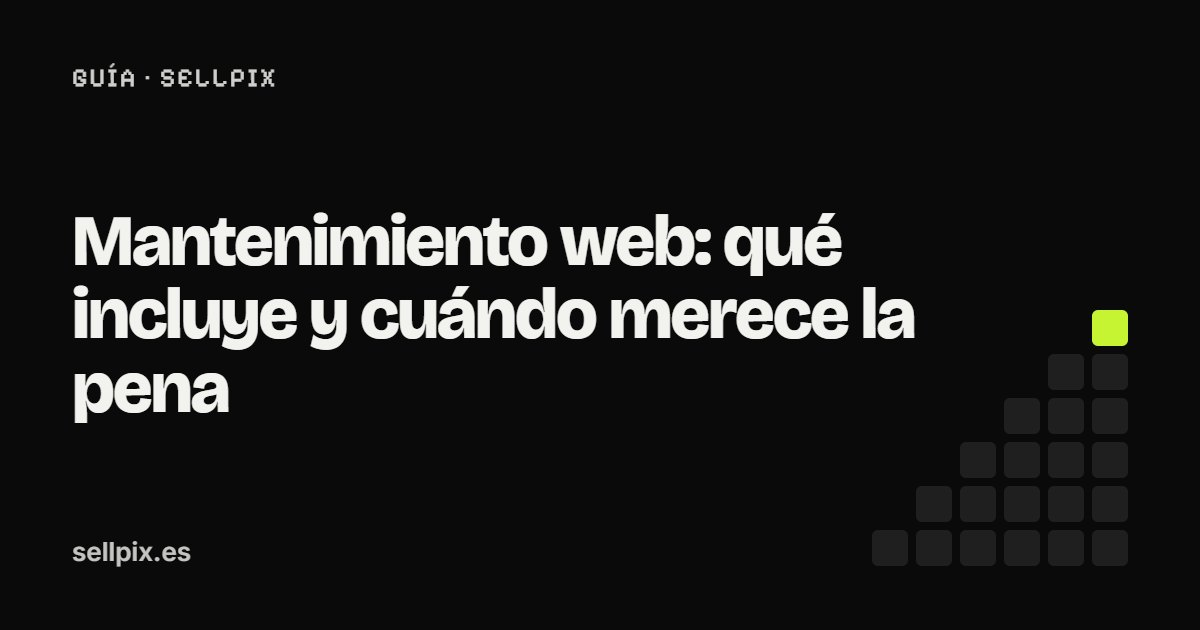
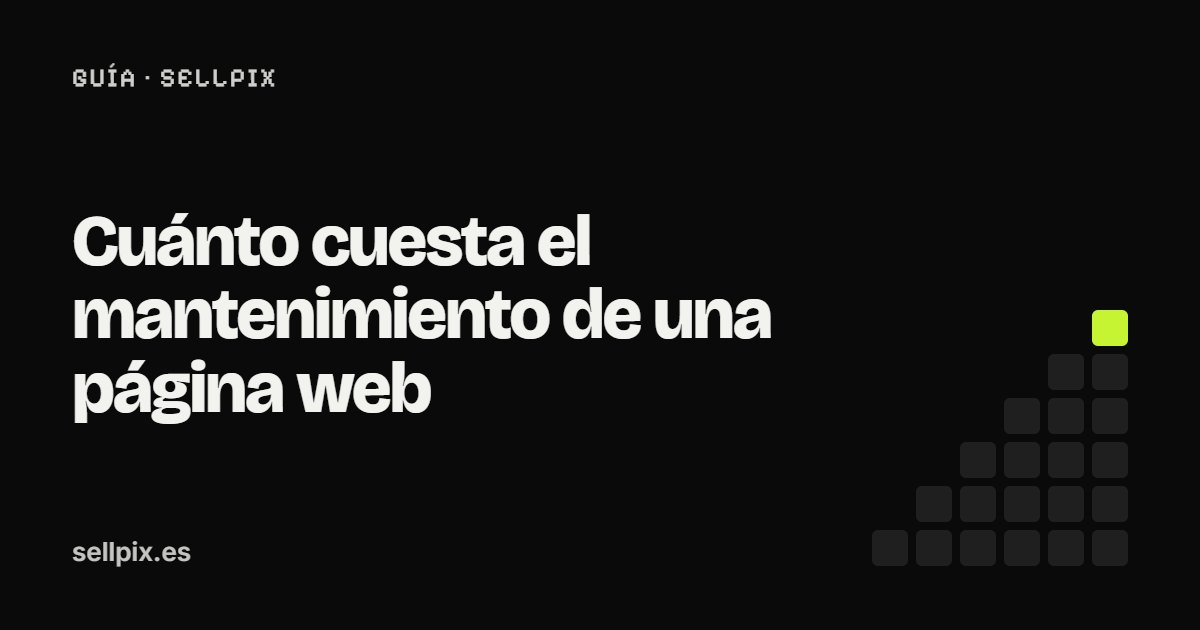
SEO mantenimiento: precio en título, h1 y h2 del servicio; la guía pasa a «Cuánto cuesta el mantenimiento de una página web»
Página de servicio: title «Mantenimiento web: precio cerrado de 29 €/mes», description con el precio, h1 «Mantenimiento web a precio cerrado» y h2 «Precio del mantenimiento de una página web» sobre el contenido ya publicado. Guía (mismo slug): título, h1, descripción, sección «De qué depende el precio del mantenimiento» con el precio de SellPix como único ejemplo y enlace destacado al servicio; Article con dateModified, imagen OG regenerada, tarjeta de la portada y llms.txt al día. .faq-figure pasa a site.css.

Changed region(s): [[0.0617, 0.4524, 0.7708, 0.6937], [0.0617, 0.3317, 0.7092, 0.4524]]

diff --git a/guias/mantenimiento-web-que-incluye/index.html b/guias/mantenimiento-web-que-incluye/index.html
@@ -3,19 +3,19 @@
 <head>
 <meta charset="utf-8">
 <meta name="viewport" content="width=device-width, initial-scale=1">
-<title>Mantenimiento web: qué incluye y cuándo compensa | SellPix</title>
-<meta name="description" content="Qué incluye el mantenimiento de una web (cambios, revisión técnica, copias), qué no, qué pasa si no lo tienes y cuándo compensa pagar una cuota mensual.">
+<title>Cuánto cuesta el mantenimiento de una página web | SellPix</title>
+<meta name="description" content="De qué depende el precio del mantenimiento web: qué incluye, frecuencia y tipo de web. Con el precio de SellPix, 29 € al mes, como ejemplo.">
 <link rel="canonical" href="https://sellpix.es/guias/mantenimiento-web-que-incluye/">
 <meta property="og:type" content="article">
 <meta property="og:site_name" content="SellPix">
 <meta property="og:locale" content="es_ES">
-<meta property="og:title" content="Mantenimiento web: qué incluye y cuándo compensa | SellPix">
-<meta property="og:description" content="Qué incluye el mantenimiento de una web (cambios, revisión técnica, copias), qué no, qué pasa si no lo tienes y cuándo compensa pagar una cuota mensual.">
+<meta property="og:title" content="Cuánto cuesta el mantenimiento de una página web | SellPix">
+<meta property="og:description" content="De qué depende el precio del mantenimiento web: qué incluye, frecuencia y tipo de web. Con el precio de SellPix, 29 € al mes, como ejemplo.">
 <meta property="og:url" content="https://sellpix.es/guias/mantenimiento-web-que-incluye/">
 <meta property="og:image" content="https://sellpix.es/img/og-guia-mantenimiento-web-que-incluye.jpg">
 <meta property="og:image:width" content="1200">
 <meta property="og:image:height" content="630">
-<meta property="og:image:alt" content="Mantenimiento web: qué incluye y cuándo merece la pena. Guía de SellPix.">
+<meta property="og:image:alt" content="Cuánto cuesta el mantenimiento de una página web. Guía de SellPix.">
 <meta name="twitter:card" content="summary_large_image">
 <script type="application/ld+json">
 {
@@ -24,13 +24,13 @@
     {
       "@type": "Article",
       "@id": "https://sellpix.es/guias/mantenimiento-web-que-incluye/#article",
-      "headline": "Mantenimiento web: qué incluye y cuándo merece la pena",
-      "description": "Qué incluye el mantenimiento de una web (cambios, revisión técnica, copias), qué no, qué pasa si no lo tienes y cuándo compensa pagar una cuota mensual.",
+      "headline": "Cuánto cuesta el mantenimiento de una página web",
+      "description": "De qué depende el precio del mantenimiento web: qué incluye, frecuencia y tipo de web. Con el precio de SellPix, 29 € al mes, como ejemplo.",
       "inLanguage": "es",
       "image": "https://sellpix.es/img/og-guia-mantenimiento-web-que-incluye.jpg",
       "datePublished": "2026-10-30",
       "dateModified": "2026-10-30",
-      "wordCount": 996,
+      "wordCount": 1288,
       "author": {
         "@type": "Organization",
         "@id": "https://sellpix.es/#sellpix",
@@ -75,7 +75,7 @@
         {
           "@type": "ListItem",
           "position": 3,
-          "name": "Mantenimiento web: qué incluye",
+          "name": "Cuánto cuesta el mantenimiento web",
           "item": "https://sellpix.es/guias/mantenimiento-web-que-incluye/"
         }
       ]
@@ -132,12 +132,12 @@
         <ol>
           <li><a href="../../">Inicio</a></li>
           <li><a href="../">Guías</a></li>
-          <li aria-current="page">Mantenimiento web: qué incluye</li>
+          <li aria-current="page">Cuánto cuesta el mantenimiento web</li>
         </ol>
       </nav>
       <span class="sp-eyebrow eyebrow-block">Guía</span>
-      <h1 class="sp-h1">Mantenimiento web: qué incluye y cuándo merece la pena<span class="sp-pixel" aria-hidden="true"></span></h1>
-      <p class="sp-lead guide-lead">Una web no se estropea sola, pero tampoco se cuida sola. Esto es lo que hace el mantenimiento, lo que no hace y cómo saber si lo necesitas.</p>
+      <h1 class="sp-h1">Cuánto cuesta el mantenimiento de una página web<span class="sp-pixel" aria-hidden="true"></span></h1>
+      <p class="sp-lead guide-lead">Una web no se estropea sola, pero tampoco se cuida sola. Esto es lo que cuesta cuidarla, de qué depende el precio y cómo saber si lo necesitas.</p>
       <p class="guide-meta sp-small">Por <a href="../../estudio/" rel="author">SellPix</a> · <time datetime="2026-10-30">30 de octubre de 2026</time></p>
     </div>
   </section>
@@ -148,6 +148,7 @@
       <ol class="sp-small">
         <li><a href="#que-es-el-mantenimiento-web">Qué es el mantenimiento web</a></li>
         <li><a href="#que-incluye-normalmente">Qué incluye normalmente</a></li>
+        <li><a href="#de-que-depende-el-precio">De qué depende el precio del mantenimiento</a></li>
         <li><a href="#que-no-incluye">Qué no incluye</a></li>
         <li><a href="#que-pasa-si-no-lo-tienes">Qué pasa si no lo tienes</a></li>
         <li><a href="#cuando-compensa">Cuándo compensa y cuándo no</a></li>
@@ -171,6 +172,21 @@
 <li><strong>Vigilancia del dominio y el alojamiento.</strong> Que no caduquen y que las renovaciones estén en orden.</li>
 </ul>
 <p>En SellPix, el <a href="../../servicios/mantenimiento-web/">mantenimiento</a> incluye pequeños cambios de contenido, una revisión técnica mensual y copias de seguridad, por 29 € al mes y sin permanencia.</p>
+
+<h2 class="sp-h3" id="de-que-depende-el-precio">De qué depende el precio del mantenimiento</h2>
+<p>No hay un precio único de mantenimiento web porque no hay un único mantenimiento. Lo que hace subir o bajar la cuota es, sobre todo, esto:</p>
+<ul>
+<li><strong>Qué incluye.</strong> Solo revisión y copias es lo más barato; con cambios de contenido incluidos sube; con actualizaciones de gestor de contenidos y plugins, más; y si además entra redacción, posicionamiento o anuncios, ya no es mantenimiento, es otro servicio y se paga aparte.</li>
+<li><strong>Con qué frecuencia.</strong> Una revisión mensual cuesta más que una trimestral, y un plazo de respuesta corto para los cambios (por ejemplo, menos de 24 horas laborables) cuesta más que «cuando se pueda».</li>
+<li><strong>Qué tipo de web es.</strong> Una web estática de pocas páginas apenas tiene piezas que se rompan. Una web con gestor de contenidos necesita actualizaciones constantes y vigilancia de seguridad. Una tienda online añade pedidos, stock y pasarela de pago. Cuanto más compleja, más trabajo y más cuota.</li>
+<li><strong>Quién la hizo.</strong> Mantener una web propia es más sencillo que heredar una ajena, que primero hay que revisar. Por eso algunos proveedores solo mantienen lo que han hecho o cobran una revisión inicial.</li>
+</ul>
+<p>Como ejemplo con un precio publicado: el mantenimiento de SellPix cuesta <strong>29 € al mes</strong>, IVA incluido y sin permanencia, e incluye pequeños cambios de contenido, una revisión técnica mensual y copias de seguridad, para las webs que hacemos nosotros. Los rediseños y las funciones nuevas se presupuestan aparte. No damos cifras del mercado porque no tenemos una fuente oficial que las respalde; compara siempre lo que incluye cada cuota, no solo el importe.</p>
+<aside class="sp-card guide-callout" aria-labelledby="callout-mantenimiento">
+  <p class="sp-eyebrow" id="callout-mantenimiento">Mantenimiento de SellPix</p>
+  <p>Pequeños cambios, revisión técnica mensual y copias de seguridad por 29 € al mes, sin permanencia.</p>
+  <a class="sp-btn sp-btn--ghost" href="../../servicios/mantenimiento-web/">Ver el precio del mantenimiento web</a>
+</aside>
 
 <h2 class="sp-h3" id="que-no-incluye">Qué no incluye</h2>
 <p>Para que no haya malentendidos, el mantenimiento no suele cubrir:</p>

diff --git a/servicios/mantenimiento-web/index.html b/servicios/mantenimiento-web/index.html
@@ -3,14 +3,14 @@
 <head>
 <meta charset="utf-8">
 <meta name="viewport" content="width=device-width, initial-scale=1">
-<title>Mantenimiento web mensual, 29 €/mes | SellPix</title>
-<meta name="description" content="Mantenimiento web por 29 €/mes, IVA incluido y sin permanencia: pequeños cambios de contenido, revisión técnica mensual y copias de seguridad para tu web.">
+<title>Mantenimiento web: precio cerrado de 29 €/mes | SellPix</title>
+<meta name="description" content="Precio del mantenimiento web: 29 €/mes, IVA incluido y sin permanencia. Pequeños cambios de contenido, revisión técnica mensual y copias de seguridad.">
 <link rel="canonical" href="https://sellpix.es/servicios/mantenimiento-web/">
 <meta property="og:type" content="website">
 <meta property="og:site_name" content="SellPix">
 <meta property="og:locale" content="es_ES">
-<meta property="og:title" content="Mantenimiento web mensual, 29 €/mes | SellPix">
-<meta property="og:description" content="Mantenimiento web por 29 €/mes, IVA incluido y sin permanencia: pequeños cambios de contenido, revisión técnica mensual y copias de seguridad para tu web.">
+<meta property="og:title" content="Mantenimiento web: precio cerrado de 29 €/mes | SellPix">
+<meta property="og:description" content="Precio del mantenimiento web: 29 €/mes, IVA incluido y sin permanencia. Pequeños cambios de contenido, revisión técnica mensual y copias de seguridad.">
 <meta property="og:url" content="https://sellpix.es/servicios/mantenimiento-web/">
 <meta property="og:image" content="https://sellpix.es/img/og-sellpix.jpg">
 <meta property="og:image:width" content="1200">
@@ -140,7 +140,7 @@
         </ol>
       </nav>
       <div>
-        <h1 class="sp-h1">Mantenimiento web mensual<span class="sp-pixel" aria-hidden="true"></span></h1>
+        <h1 class="sp-h1">Mantenimiento web a precio cerrado<span class="sp-pixel" aria-hidden="true"></span></h1>
         <p class="sp-lead">Para que tu web siga al día después de la entrega. Pequeños cambios cuando los necesites, una revisión técnica cada mes y copias de seguridad, sin permanencia.</p>
       </div>
       <div class="product-buy">
@@ -156,7 +156,8 @@
     <div class="sp-container">
       <div class="product-cols">
         <div>
-          <h2 class="sp-h2">Qué incluye.</h2>
+          <h2 class="sp-h2">Precio del mantenimiento de una página web.</h2>
+          <p><span class="faq-figure">29 €/mes</span>, IVA incluido y sin permanencia. Esto es lo que incluye:</p>
           <ul class="checklist">
           <li>Pequeños cambios de contenido</li>
           <li>Revisión técnica mensual</li>

diff --git a/css/site.css b/css/site.css
@@ -285,6 +285,7 @@ footer .sp-container {
 .faq summary::after { content: "+"; flex-shrink: 0; font-size: 20px; color: var(--color-text-muted); }
 .faq details[open] summary::after { content: "−"; }
 .faq details p { margin: var(--space-3) 0 0; color: var(--color-text-muted); }
+.faq-figure { font-family: var(--font-display); font-weight: 800; color: var(--color-text); white-space: nowrap; }
 .faq details a { color: var(--color-text); text-decoration-color: var(--color-lime); text-underline-offset: 2px; }
 
 .cta-actions { margin-top: var(--space-5); display: flex; flex-wrap: wrap; align-items: center; gap: var(--space-4); }
@@ -316,6 +317,9 @@ footer .sp-container {
 .guide a { color: var(--color-text); text-decoration-color: var(--color-lime); text-underline-offset: 2px; }
 .related-guides { display: grid; gap: var(--space-4); grid-template-columns: repeat(auto-fit, minmax(260px, 1fr)); max-width: 760px; }
 .related-guides .guide-card p { margin: 0; color: var(--color-text-muted); }
+.guide-callout { margin: var(--space-6) 0; padding: var(--space-5); display: grid; gap: var(--space-3); justify-items: start; }
+.guide-callout .sp-eyebrow { color: var(--color-text-muted); }
+.guide-callout p { margin: 0; }
 .guide-more { margin-top: var(--space-8); padding-top: var(--space-5); border-top: 1px solid var(--color-line); }
 .guide-more h2 { margin: 0 0 var(--space-3); color: var(--color-text-muted); }
 .guide-more ul { margin: 0; padding-left: var(--space-5); display: grid; gap: var(--space-2); }

diff --git a/guias/index.html b/guias/index.html
@@ -90,7 +90,7 @@
         {
           "@type": "Article",
           "@id": "https://sellpix.es/guias/mantenimiento-web-que-incluye/#article",
-          "headline": "Mantenimiento web: qué incluye y cuándo merece la pena",
+          "headline": "Cuánto cuesta el mantenimiento de una página web",
           "url": "https://sellpix.es/guias/mantenimiento-web-que-incluye/",
           "datePublished": "2026-10-30",
           "author": {
@@ -217,8 +217,8 @@
 
       <article class="sp-card guide-card">
         <span class="sp-eyebrow">Guía</span>
-        <h2 class="sp-h3"><a href="mantenimiento-web-que-incluye/">Mantenimiento web: qué incluye y cuándo merece la pena</a></h2>
-        <p>Qué incluye el mantenimiento de una web (cambios, revisión técnica, copias), qué no, qué pasa si no lo tienes y cuándo compensa pagar una cuota mensual.</p>
+        <h2 class="sp-h3"><a href="mantenimiento-web-que-incluye/">Cuánto cuesta el mantenimiento de una página web</a></h2>
+        <p>De qué depende el precio del mantenimiento web: qué incluye, frecuencia y tipo de web. Con el precio de SellPix, 29 € al mes, como ejemplo.</p>
         <p class="sp-small u-muted"><time datetime="2026-10-30">30 de octubre de 2026</time></p>
       </article>
       </div>

diff --git a/index.html b/index.html
@@ -338,8 +338,8 @@
         </article>
         <article class="sp-card guide-card">
           <span class="sp-eyebrow">Guía</span>
-          <h3 class="sp-h3"><a href="guias/mantenimiento-web-que-incluye/">Mantenimiento web: qué incluye y cuándo merece la pena</a></h3>
-          <p>Cambios, revisión técnica y copias de seguridad: qué cubre, qué no y cuándo compensa.</p>
+          <h3 class="sp-h3"><a href="guias/mantenimiento-web-que-incluye/">Cuánto cuesta el mantenimiento de una página web</a></h3>
+          <p>De qué depende el precio, qué incluye y cuándo compensa, con el precio de SellPix como ejemplo.</p>
           <p class="sp-small u-muted"><time datetime="2026-10-30">30 de octubre de 2026</time></p>
         </article>
         <article class="sp-card guide-card">
